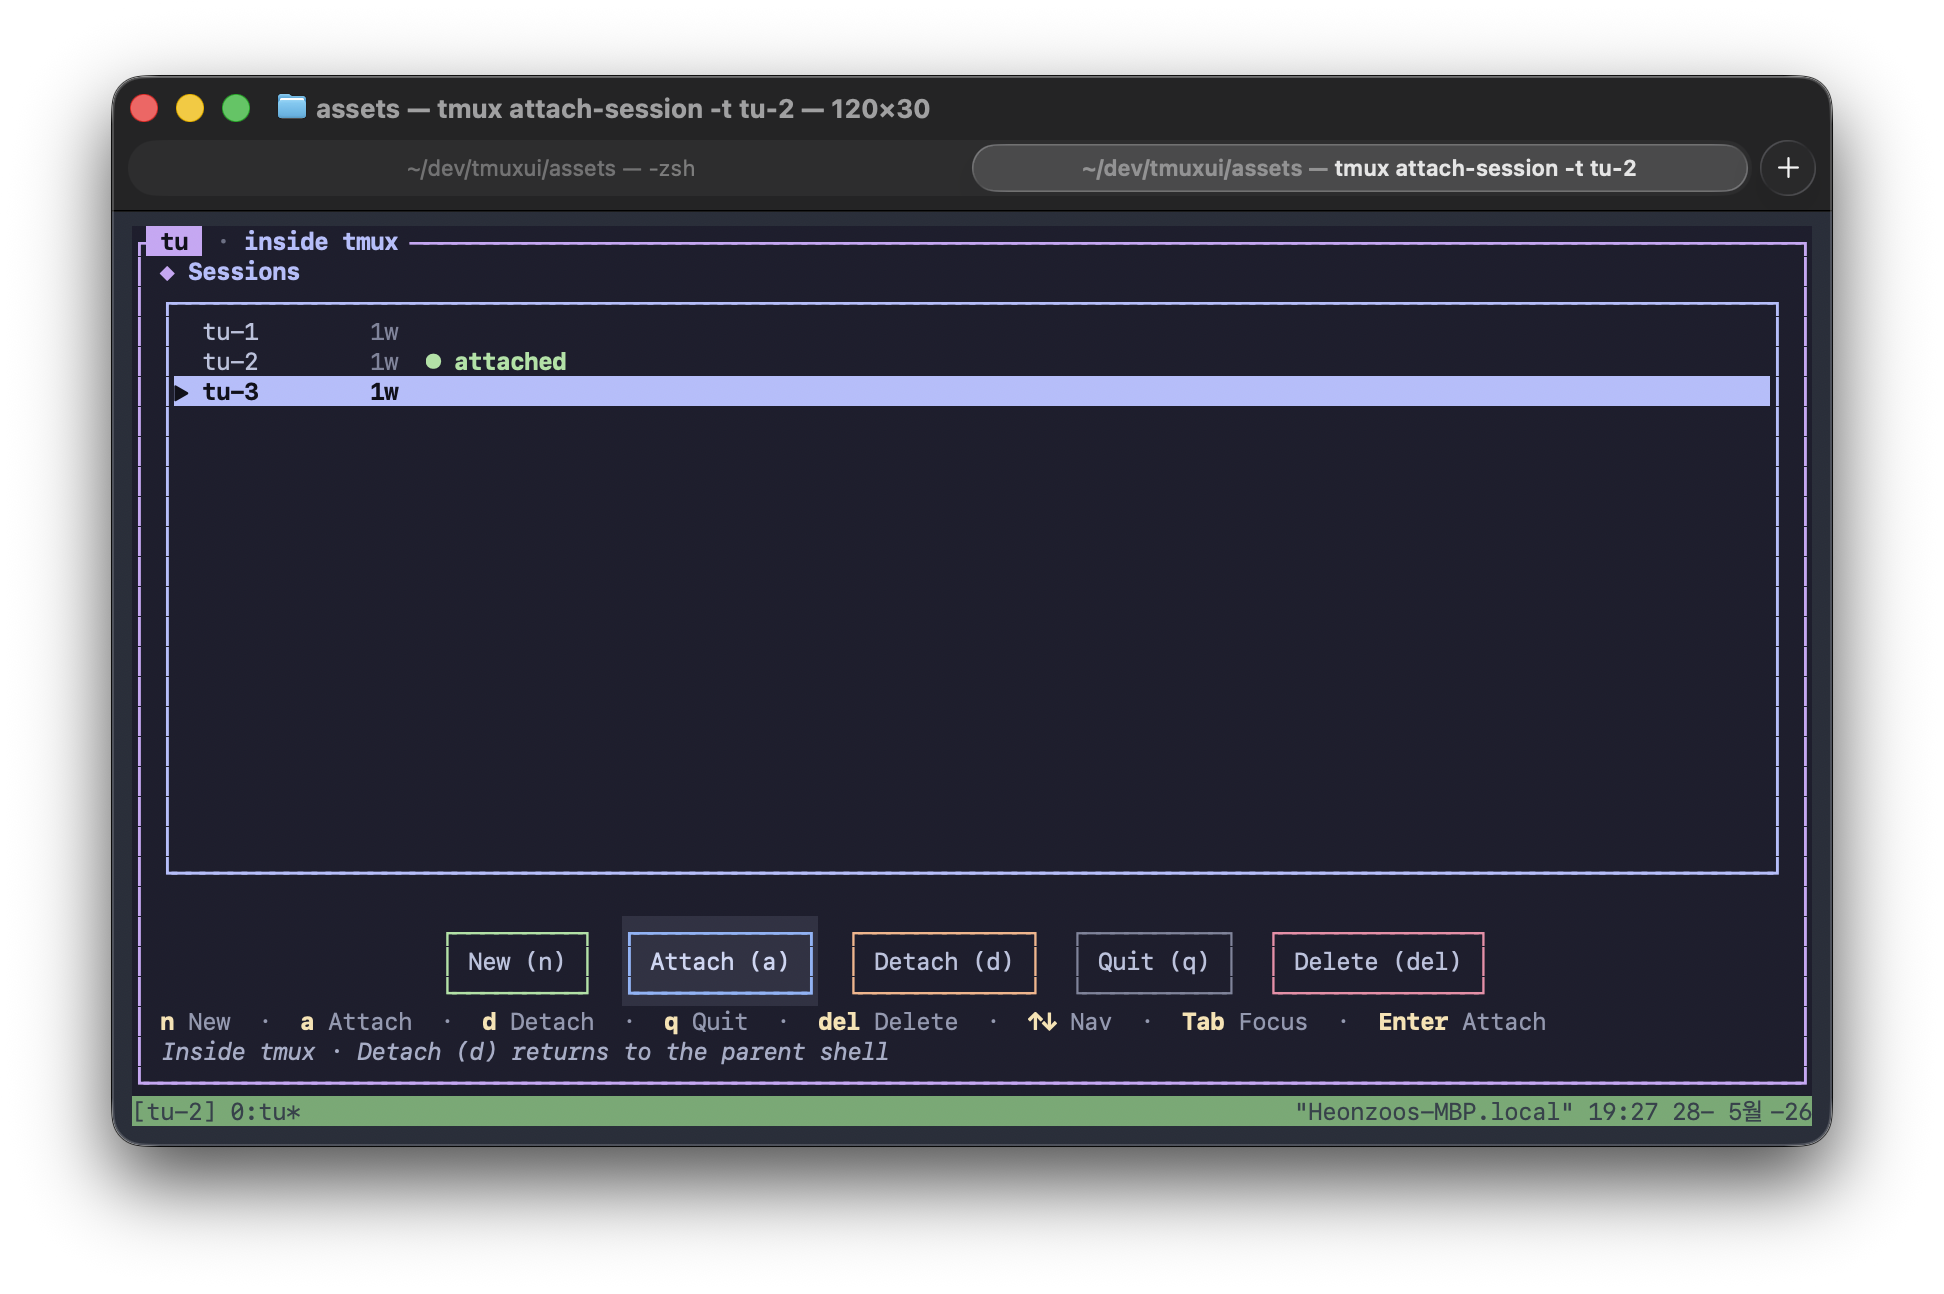
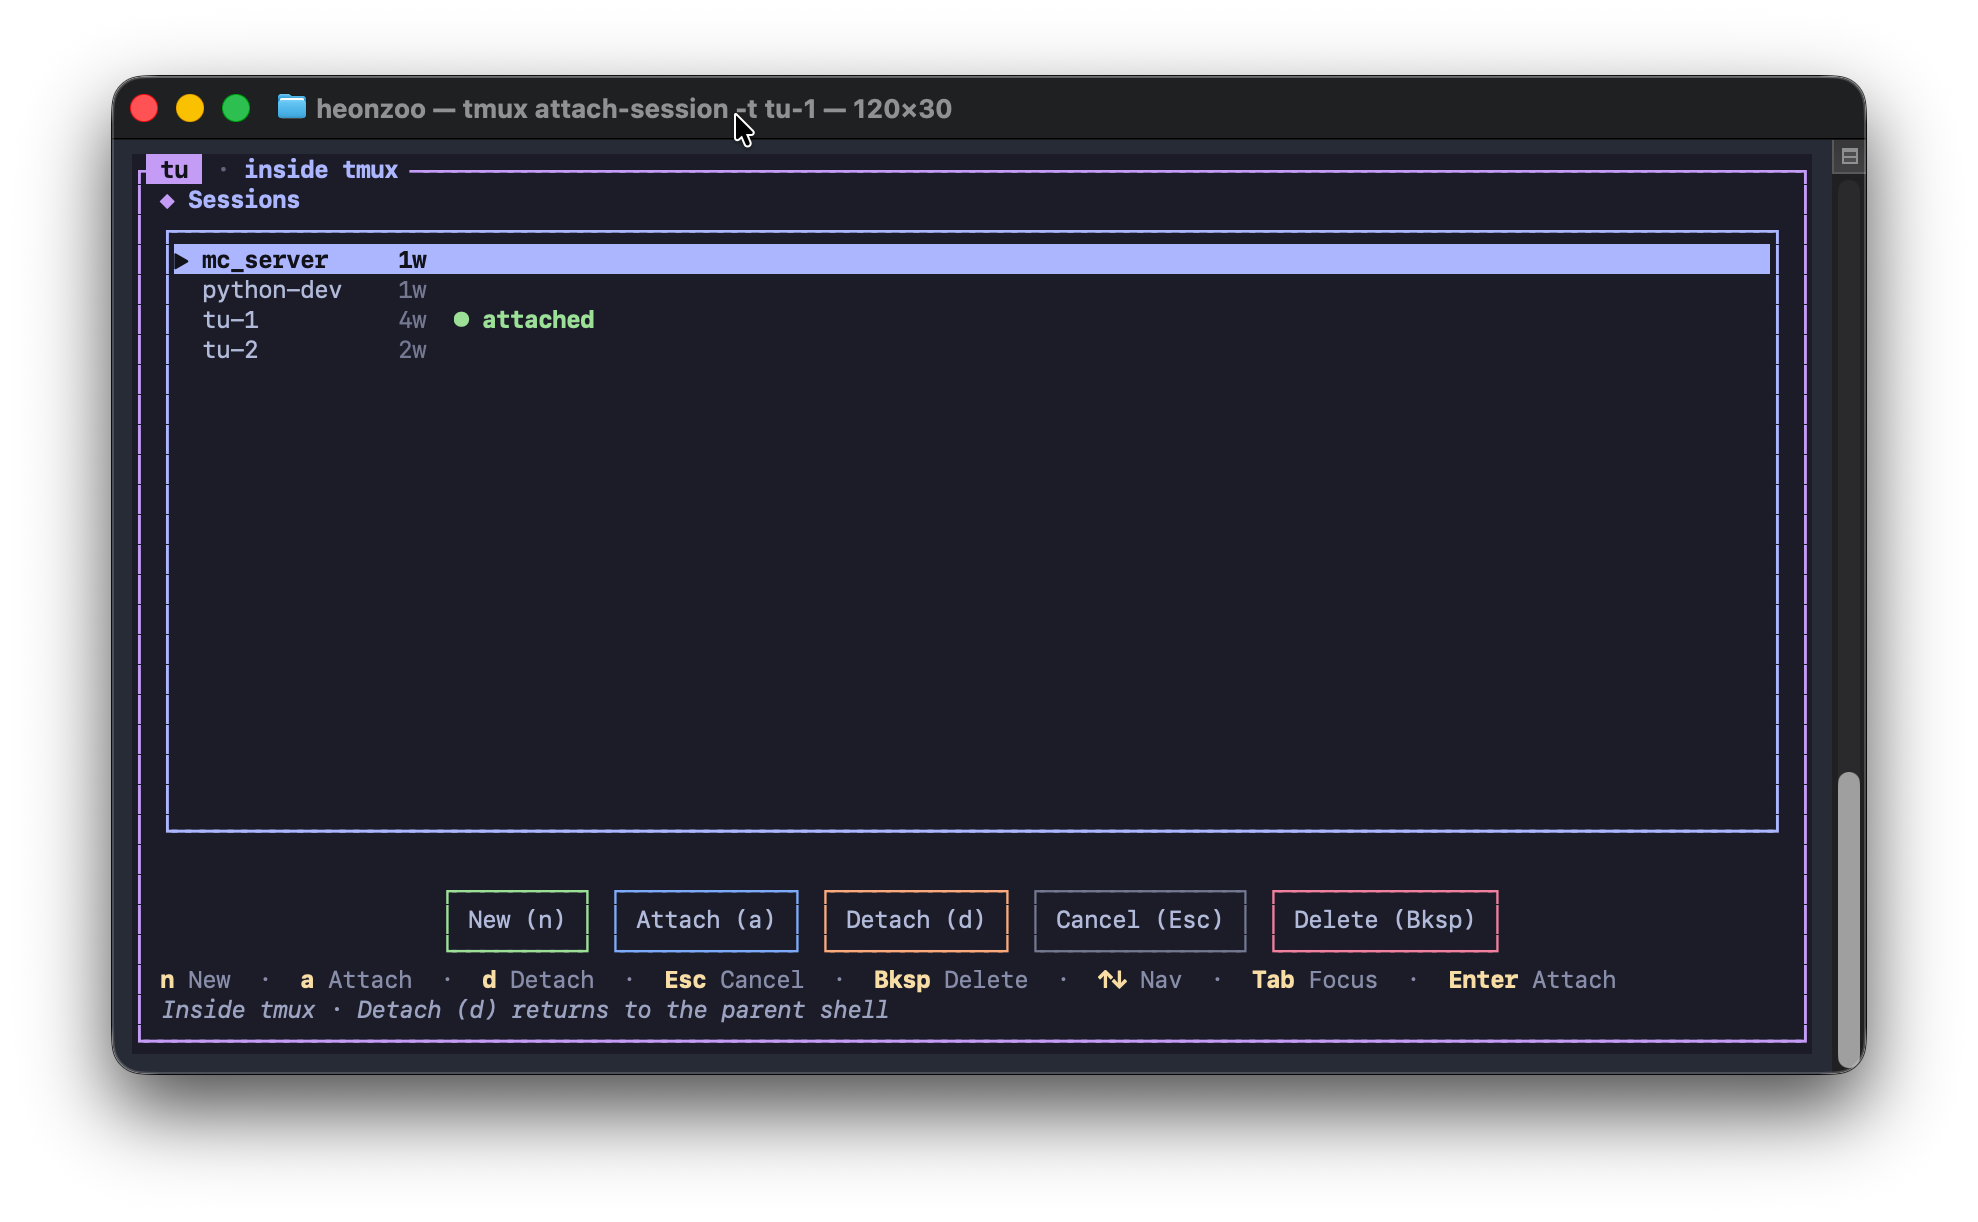
docs: update README for clarity and remove demo image
- Simplified installation instructions and emphasized the command to run `tu`.
- Removed outdated demo image and replaced it with a link to a new asset.
- Updated binary size description from ~1.5 MB to ~2 MB for accuracy.

Changed region(s): [[0.0617, 0.0311, 0.9568, 0.9018]]

diff --git a/README.md b/README.md
@@ -3,8 +3,7 @@
 # `tu`
 
 **A tiny TUI menu on top of `tmux`.**
-List, create, attach, detach, or delete sessions — keyboard
-*and* mouse, no prefix-key gymnastics.
+List, create, attach, detach, or delete sessions — Just type ***tu***
 
 [![Release](https://img.shields.io/github/v/release/hungryZoo/tu?style=flat-square&color=cba6f7&labelColor=1e1e2e)](https://github.com/hungryZoo/tu/releases/latest)
 [![License](https://img.shields.io/badge/license-MIT-89b4fa?style=flat-square&labelColor=1e1e2e)](LICENSE)
@@ -13,13 +12,17 @@ List, create, attach, detach, or delete sessions — keyboard
 
 <br/>
 
+```bash
+curl -fsSL https://raw.githubusercontent.com/hungryZoo/tu/main/install.sh | sh
+```
+
 <img src="assets/main.png" alt="tu running inside tmux, showing the session list and action buttons" width="780" />
 
 </div>
 
 ---
 
-`tu` is a single ~1.5 MB binary that opens a small picker over your
+`tu` is a single ~2 MB binary that opens a small picker over your
 running `tmux` sessions. Pick one to attach, double-click to dive in,
 **n** to spawn a fresh session, **d** to detach the current client,
 **Backspace** to kill a session (with a confirmation). Run it from a
@@ -28,7 +31,7 @@ or click the **tu** button it puts on your tmux status bar.
 
 <div align="center">
 
-<img src="assets/demo.webp" alt="tu demo: launch from parent shell, browse sessions, attach, then run tu again to detach back" width="780" />
+https://github.com/user-attachments/assets/5b21f9cb-f9f2-415b-bd92-b067b938dbf6
 
 </div>
 
@@ -65,29 +68,16 @@ or click the **tu** button it puts on your tmux status bar.
 
 ## Install
 
-### Quick install (macOS & Linux, no sudo)
-
-Detects your OS/arch, downloads the matching release binary, and
-installs it to `~/.local/bin`:
+### Quick install (Recommendation) (macOS & Linux, no sudo)
 
 ```bash
 curl -fsSL https://raw.githubusercontent.com/hungryZoo/tu/main/install.sh | sh
 ```
+Detects your OS/arch, downloads the matching release binary, and
+installs it to `~/.local/bin`:
 
-Pin a version or pick a different directory:
 
-```bash
-TU_VERSION=1.1.1 TU_INSTALL_DIR=~/bin curl -fsSL .../install.sh | sh
-```
-
-If `~/.local/bin` is not on your `PATH` yet, add this to
-`~/.zshrc` / `~/.bashrc`:
-
-```bash
-export PATH="$HOME/.local/bin:$PATH"
-```
-
-`tmux` must be installed separately — the installer only ships
+> `tmux` must be installed separately — the installer only ships
 the `tu` binary.
 
 ### macOS / Linux — Homebrew tap
